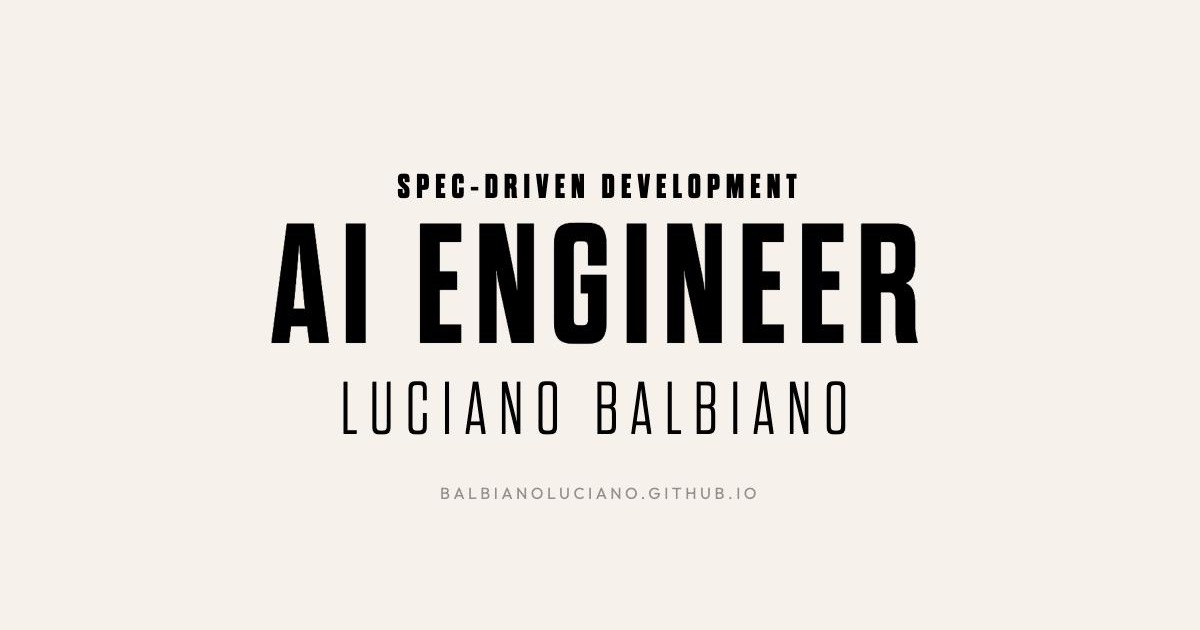
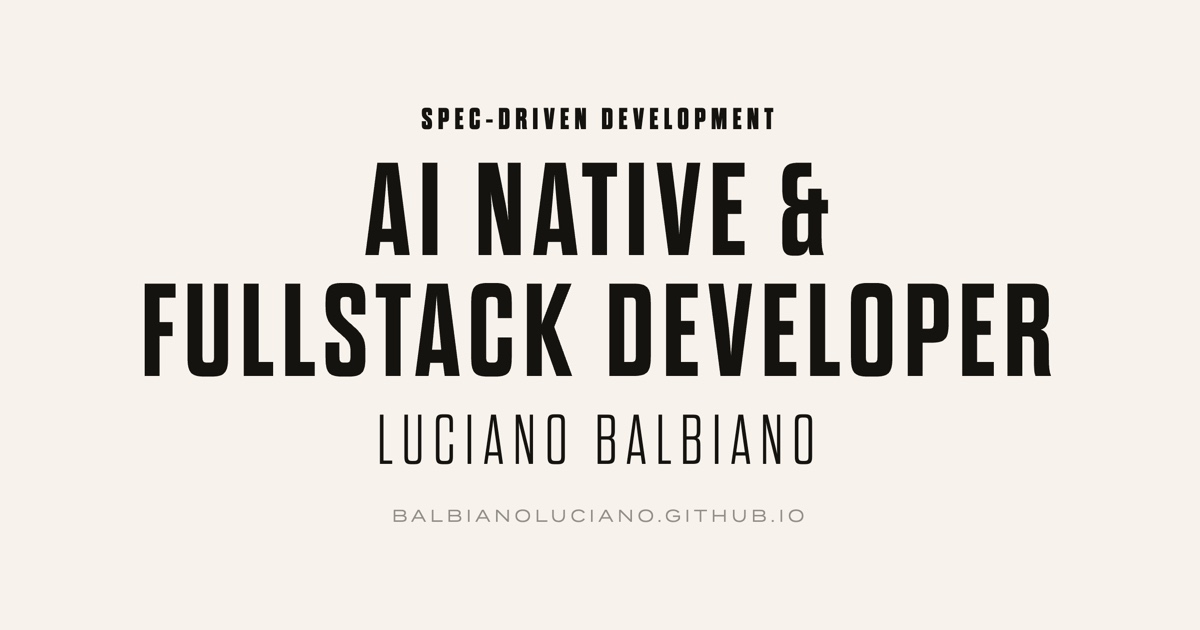
feat(marca): ai native & fullstack developer como titulo, tambien al compartir
El hero, el title, la description, el JSON-LD y la imagen de og decian otra cosa.
La og.jpg tenia AI ENGINEER incrustado: se regenero con Dharma desde localhost.
El h1 baja a 80px en desktop: el titulo nuevo es mas largo y a 120px pasaba a dos
lineas y desbordaba el panel de 50vh.

Changed region(s): [[0.0925, 0.2413, 0.8942, 0.8444], [0.3392, 0.1508, 0.6475, 0.2111]]

diff --git a/src/i18n/index.js b/src/i18n/index.js
@@ -17,7 +17,7 @@ const STORAGE_KEY = 'portfolio-lang';
 export const ui = {
   en: {
     socials: 'Socials',
-    role: 'Software Engineer',
+    role: 'AI native & Fullstack developer',
     method: 'Spec-Driven Development',
     contact: 'Contact',
     projects: 'Projects',
@@ -53,7 +53,7 @@ export const ui = {
   },
   es: {
     socials: 'Redes',
-    role: 'Software Engineer',
+    role: 'AI native & Fullstack developer',
     method: 'Spec-Driven Development',
     contact: 'Contacto',
     projects: 'Proyectos',
